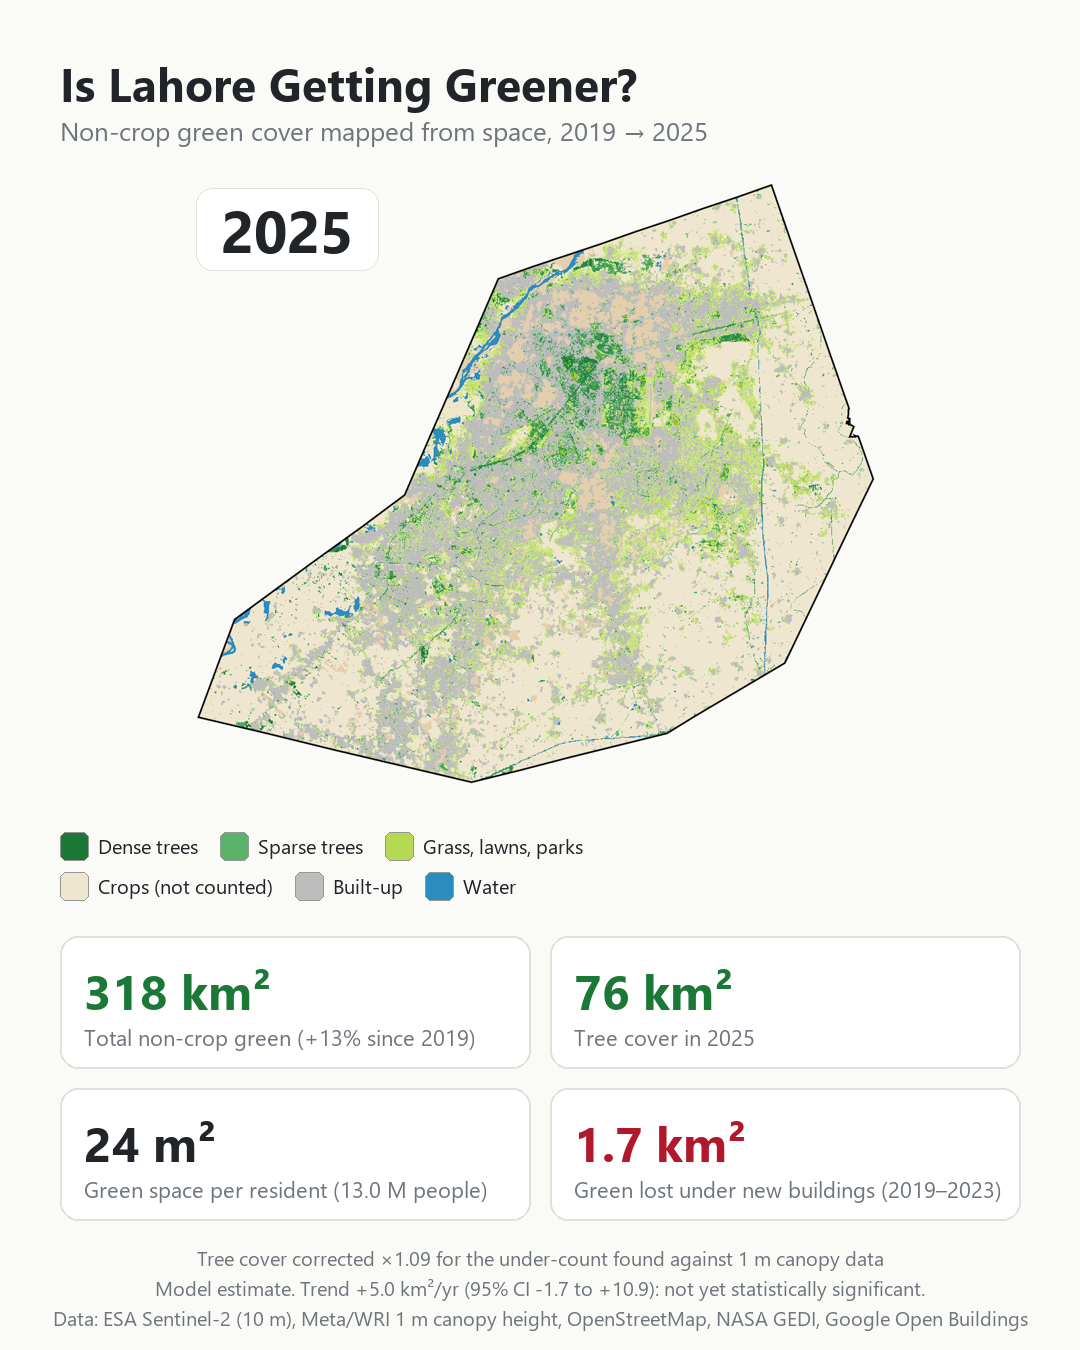
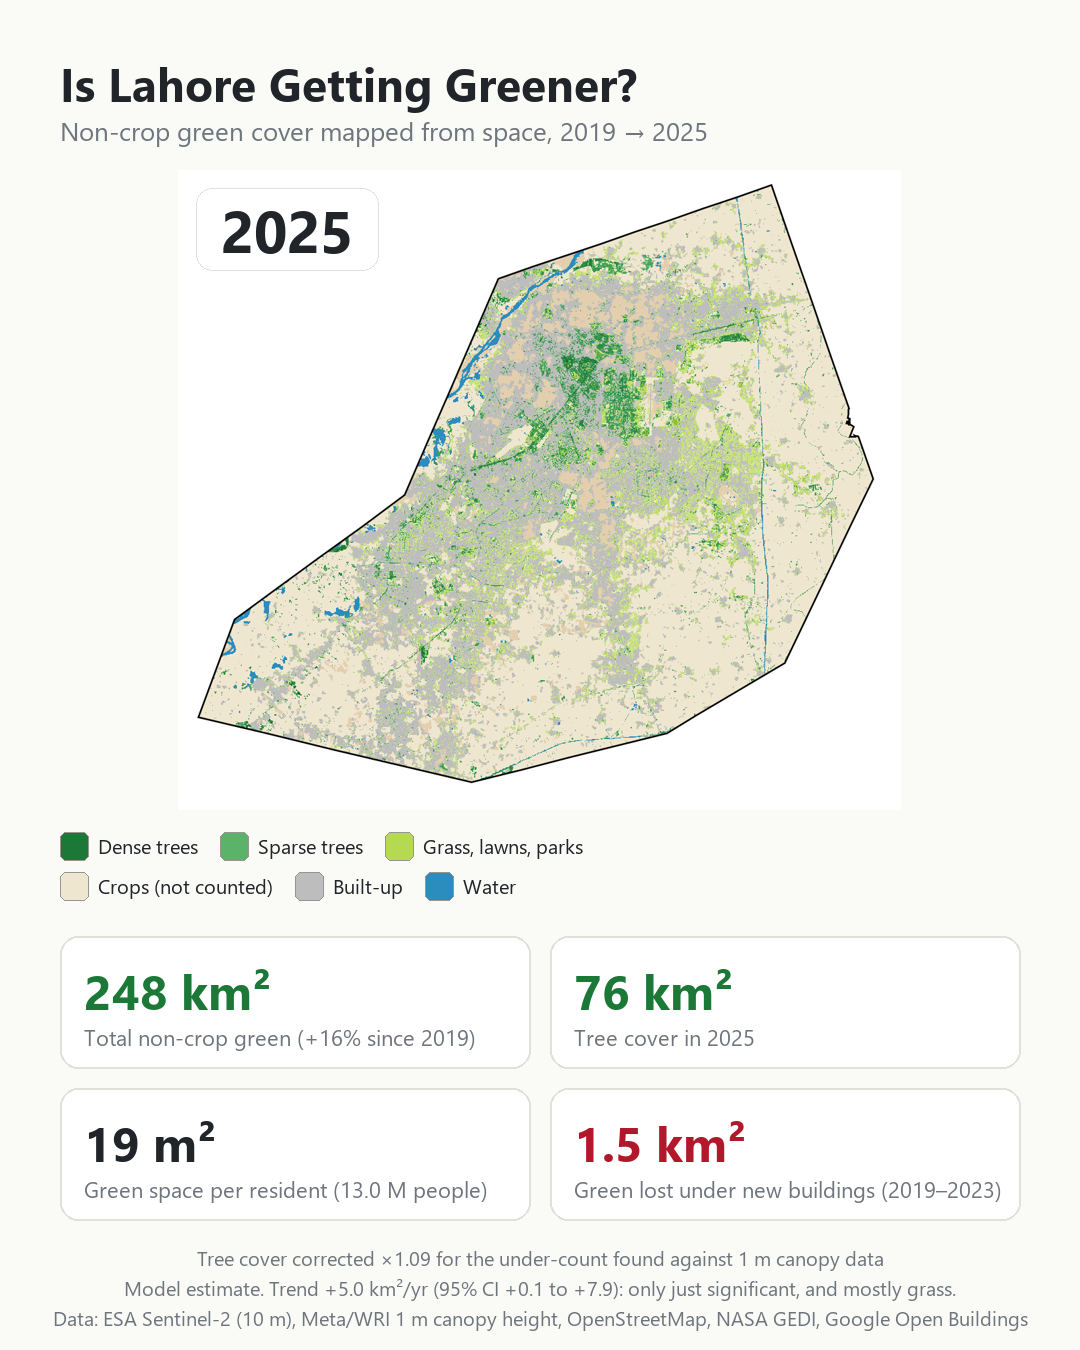
Corrected results: grass not counted on cropland; refreshed numbers, graphics and README

diff --git a/scripts/lahore_v7_B_app.js b/scripts/lahore_v7_B_app.js
@@ -1330,28 +1330,29 @@ function timelapsePanel() {
 }
 
 
-// Results of the last full verification run (October 2026), shown in the public app instead of re-running
-// the checks (3-10 minutes of computing per click). Set PUBLIC_MODE = false to run them live.
+// Results of the last full verification run (November 2026, grass not counted on crops), shown in the public
+// app instead of re-running the checks (3-10 minutes of computing per click). Set PUBLIC_MODE = false to run them live.
 var SAVED_CHECKS = [
-  ['C1', 'PASS', 'Clear images cover the whole city in every year'],
+  ['C1', 'PASS', 'Clear images cover at least 90% of the city in every season'],
   ['C2', 'PASS', 'Tree share stays within 4.0 points in protected forest and stable canopy'],
   ['C3', 'WARN', 'Tree area about 9% below held-out 1 m canopy data (R² 0.41), mostly small trees'],
-  ['C4', 'PASS', '51% of held-out park open land found as grass; 21% of cropland counted as grass; built-up 25% (lawns, info)'],
+  ['C4', 'PASS', '43% of held-out park open land found as grass; only 2% of all grass lies in cropland ' +
+    '(was 21% before crops were excluded); 35% in built-up areas (lawns)'],
   ['C5', 'PASS', 'About 1% false change on land that cannot change'],
-  ['C6', 'PASS', 'Change 2019→2025 stays between +6% and +14% across model settings'],
-  ['C7', 'WARN', 'Three methods agree the cover rose, but disagree on how much (+13% to +76%)'],
-  ['C8', 'PASS', 'Grass / crop classifier passes on held-out points'],
-  ['C9', 'WARN', 'Total +5.0 km²/yr (95% CI −1.7 to +11.0); trees +1.0 km²/yr (CI −2.4 to +4.7): not yet established, as 7 years of data ' +
-    '(2019–2025) is too short to prove a trend'],
+  ['C6', 'PASS', 'Change 2019→2025 stays between +10% and +18% across model settings'],
+  ['C7', 'WARN', 'Three methods agree the cover rose, but disagree on how much (+16% to +76%)'],
+  ['C8', 'PASS', 'Grass vs not 96% and crops vs not 99% correct on 1,373 held-out points'],
+  ['C9', 'PASS', 'Total +5.0 km²/yr (95% CI +0.05 to +7.9): only just significant, and driven by grass ' +
+    '(+2.8 km²/yr); trees +1.0 km²/yr (CI −2.4 to +4.7) not established. 7 years is a short record'],
   ['C10', 'PASS', 'NASA GEDI laser canopy heights agree with the tree change (r = 0.62)'],
-  ['C11', 'PASS', '21.4 km² newly built 2019–2023 (Open Buildings); green fell on 77% of it, 1.7 km² lost'],
-  ['D1', 'INFO', 'Diagnostic only (spread between the three tree models)'],
-  ['D2', 'INFO', 'Green area follows rainfall (r = 0.62): part of the year-to-year change is weather']
+  ['C11', 'PASS', '21.4 km² newly built 2019–2023 (Open Buildings); green fell on 74% of it, 1.5 km² lost'],
+  ['D1', 'INFO', 'Diagnostic only (spread between the three tree models: 3%)'],
+  ['D2', 'INFO', 'Green area follows rainfall (r = 0.74): part of the year-to-year change is weather']
 ];
 var SAVED_AREAS = [   // [year, trees, grass] in km2 from the last full run; 2026 provisional
-  [2019, 62.92, 213.66], [2020, 67.24, 219.62], [2021, 73.45, 227.47], [2022, 76.85, 231.89],
-  [2023, 74.04, 230.18], [2024, 68.82, 226.95], [2025, 69.81, 242.08], [2026, 70.99, 249.93]];
-var SAVED_SEN = 5.01;   // km2 per year, total non-crop green 2019-2025 (95% CI -1.72 to +10.95)
+  [2019, 62.92, 144.32], [2020, 67.24, 147.92], [2021, 73.45, 151.82], [2022, 76.85, 153.43],
+  [2023, 74.04, 154.85], [2024, 68.82, 156.60], [2025, 69.81, 171.40], [2026, 70.99, 177.41]];
+var SAVED_SEN = 5.00;   // km2 per year, total non-crop green 2019-2025 (95% CI +0.05 to +7.92)
 function savedTrendChart() {
   var t0 = SAVED_AREAS[0][0], complete = SAVED_AREAS.filter(function (a) { return !isProvisional(a[0]); });
   var resid = complete.map(function (a) { return a[1] + a[2] - SAVED_SEN * (a[0] - t0); }).sort(function (a, b) {
@@ -1366,7 +1367,7 @@ function savedTrendChart() {
   });
   return ui.Chart(rows, 'LineChart', {
     title: 'Non-crop green area (km\u00b2) \u00b7 trend +' + SAVED_SEN.toFixed(1) +
-      ' km\u00b2/yr, not yet statistically significant (7 years is too short) \u00b7 2026* provisional',
+      ' km\u00b2/yr, only just significant and mostly grass \u00b7 2026* provisional',
     titleTextStyle: {fontSize: 12, bold: false, color: '#444'},
     colors: ['#1b7837', '#93c02c', '#0b5a2a', '#888888'],
     series: {0: {lineWidth: 3, pointSize: 6}, 1: {lineWidth: 2, pointSize: 4}, 2: {lineWidth: 2, pointSize: 4},
@@ -1390,7 +1391,7 @@ function trendPanel() {
 
 function showSavedChecks() {
   SAVED_CHECKS.forEach(function (c) { setRow(c[0], c[1], c[2]); });
-  verdict.setValue('Model estimate: 276.6 km² (2019) → 311.9 km² (2025), +35.3 km². ' +
+  verdict.setValue('Model estimate: 207.2 km² (2019) → 241.2 km² (2025), +34.0 km². ' +
     'The direction is confirmed by independent data; report it as an estimate with caveats.');
 }
 
@@ -1444,8 +1445,11 @@ function aboutPanel() {
     '• Tree cover is under-estimated by roughly 9% of the tree area compared with 1 m canopy data, mainly very ' +
     'small trees (about 70 km² shown is really about 76 km²; a change of under half a percentage point of ' +
     'Lahore, not 9 points).\n' +
-    '• Year-to-year changes are partly weather-related; the 2019–2025 increase is not yet a statistically ' +
-    'proven trend, because 7 years of data is too short (details in "How We Know").\n' +
+    '• Grass is not counted where Google Dynamic World labels the land cropland that year, so fodder and ' +
+    'fallow fields are not mistaken for lawns. Much of the new grass is lawns and verges in housing schemes ' +
+    'built on former farmland: about 9% of Lahore’s farmland was lost to building between 2019 and 2025.\n' +
+    '• Year-to-year changes are partly weather-related; the 2019–2025 increase is only just statistically ' +
+    'significant, comes mostly from grass, and 7 years is a short record (details in "How We Know").\n' +
     '• Neighbourhood names are approximate reference points, not boundaries.\n' +
     '• The district outline is simplified (geoBoundaries).', PARA));
   p.add(ui.Label('Data sources', HEADING));

diff --git a/tools/build_visuals.py b/tools/build_visuals.py
@@ -311,8 +311,10 @@ def build_cover(payload, frames, out_path):
     if s and s.get('treesBiasCorrected') and k:
         d.text((W / 2, H - 92), 'Tree cover corrected \u00d7%.2f for the under-count found against 1 m canopy data' % k,
                fill=MUTED, font=F_SMALL, anchor='mm')
-    note = 'Model estimate. ' + ('Trend %+.1f km\u00b2/yr (95%% CI %+.1f to %+.1f): not yet statistically significant.' %
-                                 (tr['total'], tr['totalLo'], tr['totalHi']) if tr else '')
+    verdict = ('only just significant, and mostly grass' if tr and tr['totalLo'] > 0
+               else 'not yet statistically significant')
+    note = 'Model estimate. ' + ('Trend %+.1f km\u00b2/yr (95%% CI %+.1f to %+.1f): %s.' %
+                                 (tr['total'], tr['totalLo'], tr['totalHi'], verdict) if tr else '')
     footer(d, note)
     canvas.save(out_path)
     return out_path

diff --git a/README.md b/README.md
@@ -13,14 +13,17 @@
 | | 2019 | 2025 | Change |
 |---|---|---|---|
 | Tree cover | 62.9 km² | 69.8 km² | +6.9 km² (+11%) |
-| Grass, lawns, parks | 213.7 km² | 242.1 km² | +28.4 km² (+13%) |
-| **Total non-crop green** | **276.6 km²** | **311.9 km²** | **+35.3 km² (+13%)** |
-| Share of the district | 16.3% | 18.4% | +2.1 points |
+| Grass, lawns, parks | 144.3 km² | 171.4 km² | +27.1 km² (+19%) |
+| **Total non-crop green** | **207.2 km²** | **241.2 km²** | **+34.0 km² (+16%)** |
+| Share of the district | 12.2% | 14.2% | +2.0 points |
 
-- Lahore's non-crop green cover **grew by about 35 km² between 2019 and 2025**, and both NASA's GEDI space laser and Google Open Buildings point the same way.
-- The rise is **not yet a statistically established trend**: 7 years of data (2019–2025) is too short, and year-to-year swings are large and partly follow rainfall (r = 0.62).
-- Green is still being lost to construction. **21.4 km² was newly built between 2019 and 2023**, and green cover fell on 77% of that land.
+- Lahore's non-crop green cover **grew by about 34 km² between 2019 and 2025**, and both NASA's GEDI space laser and Google Open Buildings point the same way.
+- The rise is **only just statistically significant** (+5.0 km²/yr, 95% CI +0.05 to +7.9) and comes mostly from grass. The tree trend is not significant. 7 years (2019–2025) is a short record, and year-to-year swings partly follow rainfall (r = 0.74).
+- **Lahore is losing farmland to construction.** Cropland fell from about 747 km² to 681 km² (−9%) between 2019 and 2025, while built-up land grew by about the same amount (Google Dynamic World shows the same). The largest green gains are lawns and verges in new housing schemes such as DHA Phases 7 and 8, built on former fields.
+- Green is also lost to construction inside the city. **21.4 km² was newly built between 2019 and 2023**, and green cover fell on 74% of that land.
 - The model under-counts tree area by about 9% of itself, mostly small trees. Allowing for this, 2025 tree cover is about 76 km², not 70 km². That's a change of less than half a percentage point of the district.
+
+> **Correction (November 2026):** an earlier version counted about 70 km² of fodder and fallow fields as grass, giving 277 → 312 km². A crop check showed this false grass was rising over time, so grass is no longer counted where Google Dynamic World labels the land cropland in that year. Grass on fields that stayed fields fell from 44 km² to under 3 km².
 
 ![Is Lahore getting greener?](graphics/lahore_green_cover.png)
 
@@ -29,7 +32,7 @@
 | Benchmark | Lahore | Target |
 |---|---|---|
 | Tree canopy, share of the district (3-30-300 rule) | 4.1% | 30% per neighbourhood |
-| Non-crop green per resident | 24 m² | commonly quoted minimum 9 m², ideal 50 m² |
+| Non-crop green per resident | 19 m² | commonly quoted minimum 9 m², ideal 50 m² |
 | Residents within 300 m of a park of at least 0.5 ha | 24% | 100% (WHO/Europe) |
 | Neighbourhoods meeting 30% canopy | 0 of 137 | all |
 
@@ -46,7 +49,7 @@ The district share includes farmland, so the fair comparison with the 30% target
 **Data:** Sentinel-2 surface reflectance (ESA/Copernicus), cloud-masked with Google Cloud Score+ plus a haze filter. Each year uses three seasons: February–March, May–June and early October.
 
 1. **Trees.** A random-forest model estimates the share of every 10 m pixel covered by trees. It's trained on the Meta/WRI 1 m global canopy-height map (trees of 3 m or taller).
-2. **Grass, lawns and parks.** This is the share of each pixel that stays green all year and isn't trees. Crops are removed with a classifier trained and tested on OpenStreetMap parks, lawns and golf courses.
+2. **Grass, lawns and parks.** This is the share of each pixel that stays green all year and isn't trees. Crops are removed with a classifier trained and tested on OpenStreetMap parks, lawns and golf courses, and no grass is counted where Google Dynamic World labels the land cropland in that year.
 3. **Crops are excluded** because wheat and rice are green for only a few months.
 4. **Consistency between years.** Images are normalised to 2021. Remaining drift is measured and removed on land that can't change, such as dense old built-up areas and permanent water.
 5. **Trend.** Mann-Kendall test with Sen's slope and a 95% confidence interval.
@@ -60,16 +63,16 @@ Ten scored checks test the model against data it was **not** trained on:
 | C1 Clear-image coverage across the city | ✅ |
 | C2 Stable in protected forests and stable canopy | ✅ |
 | C3 Tree share vs held-out 1 m canopy | ⚠ about 9% under-count, R² 0.41 |
-| C4 Grass found in held-out OSM parks; little false grass in crops | ✅ |
+| C4 Grass found in held-out OSM parks; little false grass in crops | ✅ 2% of grass in cropland |
 | C5 False change on land that can't change | ✅ about 1% |
-| C6 Robust to model settings | ✅ +6% to +14% across variants |
-| C7 Three methods agree on direction | ⚠ +13% to +76% |
-| C8 Grass/crop classifier accuracy | ✅ |
-| C9 Trend and 95% confidence interval | ⚠ positive, not significant (7 years is too short) |
+| C6 Robust to model settings | ✅ +10% to +18% across variants |
+| C7 Three methods agree on direction | ⚠ +16% to +76% |
+| C8 Grass/crop classifier accuracy | ✅ 96% / 99% |
+| C9 Trend and 95% confidence interval | ✅ total only just significant, mostly grass; trees not significant |
 | C10 Independent: NASA GEDI laser canopy heights | ✅ r = 0.62 |
 | C11 Independent: green lost where new buildings appeared | ✅ |
 
-**Verdict: partly supported.** The direction is independently confirmed, but 7 years of data (2019–2025) is too short to prove a trend. Without field visits, the best this method can reach is "well supported", not "field-verified".
+**Verdict: partly supported.** The direction is independently confirmed. The total trend is only just significant and comes mostly from grass, and 7 years of data (2019–2025) is a short record. Without field visits, the best this method can reach is "well supported", not "field-verified".
 
 ---
 
